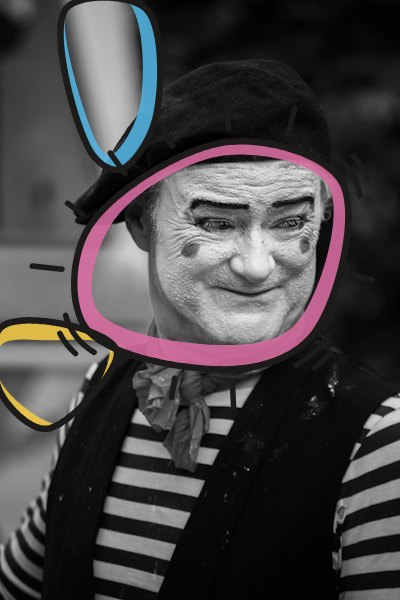
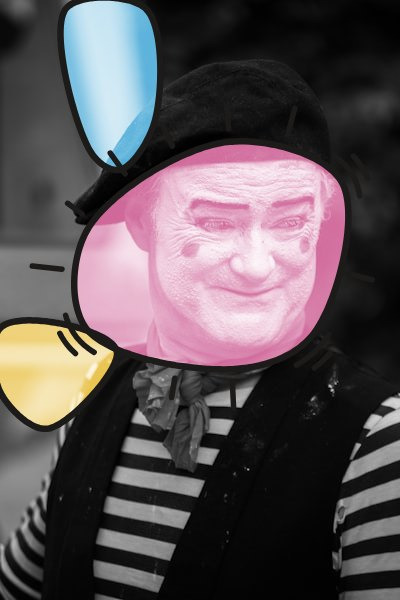
photo/aplats/web : l'aplat remplit toute la forme, en screen sur fond sombre
Sur fond sombre, aplats.js ne peignait qu'un halo autour du sujet (comme
figures.py) : l'aplat ressemblait à un simple trait le long du contour.
La couleur couvre maintenant toute la forme cernée de noir ; sur fond
sombre elle passe en screen, symétrique du multiply, qui garde le sujet
lisible. La courbe intérieure du halo disparaît du modèle animé.

Claude-Session: https://claude.ai/code/session_019a3GfqsxVAEvSqYWDAZWCo

Changed region(s): [[0.0, 0.24, 0.87, 0.72], [0.15, 0.0, 0.39, 0.27]]

diff --git a/photo/aplats/web/aplats.js b/photo/aplats/web/aplats.js
@@ -8,9 +8,13 @@
  *   2. silhouette « au pinceau » (fermeture au flou gaussien, trous bouchés),
  *      élargie, contour suivi pixel par pixel, réduit par Douglas-Peucker,
  *      relié par une Catmull-Rom centripète ;
- *   3. aplat en multiply sur fond clair, halo couvrant sur fond sombre, gros
- *      trait noir, vibrations (arcs aux angles, traits droits ailleurs) autour
- *      du sujet principal.
+ *   3. aplat sur toute la forme, en multiply sur fond clair et en screen sur
+ *      fond sombre, gros trait noir, vibrations (arcs aux angles, traits
+ *      droits ailleurs) autour du sujet principal.
+ *
+ * Écart voulu avec figures.py : sur fond sombre, le script Python laisse le
+ * sujet hors de l'aplat (un halo) ; ici la couleur remplit toute la forme
+ * cernée de noir, et c'est le mode screen qui garde le sujet lisible.
  *
  * Ce que le script Python ne fait pas : les formes sont vivantes. Chaque
  * courbe est une chaîne de points montés sur ressorts. Le curseur les
@@ -485,14 +489,6 @@
     return out;
   }
 
-  // Une courbe réduite à son centre : un trou de surface nulle.
-  function collapsed(c) {
-    const [x, y] = centroid(c);
-    const out = new Float32Array(2 * N);
-    for (let i = 0; i < N; i++) { out[2 * i] = x; out[2 * i + 1] = y; }
-    return out;
-  }
-
   function translated(c, dx, dy) {
     const out = Float32Array.from(c);
     for (let i = 0; i < N; i++) { out[2 * i] += dx; out[2 * i + 1] += dy; }
@@ -725,7 +721,7 @@
     }
 
     // Une silhouette posée sur une zone : courbe élargie (décalée comme un
-    // repérage raté), courbe du sujet (le trou du halo), mode de fusion.
+    // repérage raté) et mode de fusion.
     shapeOn(zi, main, rnd) {
       const z = this.zones[zi];
       const { w, h, lum } = this.small;
@@ -737,14 +733,13 @@
       if (!outer) return null;
       const off = 0.012 * this.d;
       outer = translated(outer, rnd.uniform(-off, off), rnd.uniform(-off, off));
-      const inner = curveOf(bold, w, h, this.k, tol) || collapsed(outer);
 
-      // Sur du clair, multiply ; sur du sombre la couleur y disparaîtrait :
-      // halo couvrant autour du sujet.
+      // Sur du clair, multiply : la couleur fonce la photo. Sur du sombre le
+      // multiply ne donnerait rien : screen, qui l'éclaircit vers la couleur.
       let sum = 0, cnt = 0;
-      for (let i = 0; i < grown.length; i++) if (grown[i] && !bold[i]) { sum += lum[i]; cnt++; }
-      const normal = cnt && sum / cnt <= 0.5 ? 1 : 0;
-      return { outer, inner, normal, zone: zi };
+      for (let i = 0; i < grown.length; i++) if (grown[i]) { sum += lum[i]; cnt++; }
+      const screen = cnt && sum / cnt <= 0.5 ? 1 : 0;
+      return { outer, screen, zone: zi };
     }
 
     build() {
@@ -767,18 +762,16 @@
           color: COULEURS[names[this.shapes.length % names.length]],
           main: this.shapes.length === 0,
           zone: zi,
-          normal: s.normal,
-          restO: s.outer, restI: align(s.outer, s.inner),
+          screen: s.screen,
+          rest: s.outer,                      // forme au repos
+          pos: Float32Array.from(s.outer),    // forme affichée
+          D: new Float32Array(2 * N),         // écart au repos de chaque point
+          V: new Float32Array(2 * N),         // et sa vitesse
+          RV: new Float32Array(2 * N),        // vitesse du repos pendant un déplacement
           T: [0, 0], TV: [0, 0],
           morph: null,
         };
-        for (const key of ['O', 'I']) {
-          shape['D' + key] = new Float32Array(2 * N);
-          shape['V' + key] = new Float32Array(2 * N);
-          shape['P' + key] = Float32Array.from(shape['rest' + key]);
-          shape['RV' + key] = new Float32Array(2 * N);
-        }
-        shape.corners = pickCorners(shape.restO, this.vib);
+        shape.corners = pickCorners(shape.rest, this.vib);
         this.shapes.push(shape);
       }
     }
@@ -797,12 +790,12 @@
       if (!this.shapes.length) return;
       let mover = null;
       for (let i = this.shapes.length - 1; i >= 0; i--) {
-        if (inside(this.shapes[i].PO, P[0], P[1])) { mover = this.shapes[i]; break; }
+        if (inside(this.shapes[i].pos, P[0], P[1])) { mover = this.shapes[i]; break; }
       }
       if (mover) return this.send(mover, null);
       let best = Infinity;
       for (const s of this.shapes) {
-        const [x, y] = centroid(s.PO);
+        const [x, y] = centroid(s.pos);
         const dd = Math.hypot(x - P[0], y - P[1]);
         if (dd < best) { best = dd; mover = s; }
       }
@@ -823,20 +816,14 @@
       let target = zi >= 0 ? this.shapeOn(zi, shape.main, this.rnd) : null;
       if (!target) {
         // Pas de zone libre : la forme glisse telle quelle, vers le clic ou au hasard.
-        const [cx, cy] = centroid(shape.restO);
+        const [cx, cy] = centroid(shape.rest);
         const to = P || [this.W * this.rnd.uniform(0.25, 0.75), this.H * this.rnd.uniform(0.25, 0.75)];
-        target = {
-          outer: translated(shape.restO, to[0] - cx, to[1] - cy),
-          inner: translated(shape.restI, to[0] - cx, to[1] - cy),
-          normal: shape.normal, zone: -1,
-        };
+        target = { outer: translated(shape.rest, to[0] - cx, to[1] - cy), screen: shape.screen, zone: -1 };
       }
-      const toO = align(shape.restO, target.outer);
       shape.morph = {
         t: 0,
-        fromO: Float32Array.from(shape.restO), toO,
-        fromI: Float32Array.from(shape.restI), toI: align(shape.restI, target.inner),
-        fromN: shape.normal, toN: target.normal,
+        from: Float32Array.from(shape.rest), to: align(shape.rest, target.outer),
+        fromScreen: shape.screen, toScreen: target.screen,
       };
       shape.zone = target.zone;
       if (reduceMotion) shape.morph.t = 1;
@@ -855,31 +842,28 @@
           const m = s.morph;
           m.t = Math.min(1, m.t + dt / TRAVEL);
           const e = m.t < 0.5 ? 4 * m.t ** 3 : 1 - (-2 * m.t + 2) ** 3 / 2;
-          for (const key of ['O', 'I']) {
-            const rest = s['rest' + key], from = m['from' + key], to = m['to' + key], rv = s['RV' + key], V = s['V' + key];
-            for (let i = 0; i < 2 * N; i++) {
-              const next = from[i] + (to[i] - from[i]) * e;
-              const vel = dt > 0 ? (next - rest[i]) / dt : 0;
-              // Pseudo-force d'inertie : la forme traîne puis rebondit à l'arrivée.
-              if (!reduceMotion && dt > 0) V[i] -= INERTIA * (vel - rv[i]);
-              rv[i] = vel;
-              rest[i] = next;
-            }
+          for (let i = 0; i < 2 * N; i++) {
+            const next = m.from[i] + (m.to[i] - m.from[i]) * e;
+            const vel = dt > 0 ? (next - s.rest[i]) / dt : 0;
+            // Pseudo-force d'inertie : la forme traîne puis rebondit à l'arrivée.
+            if (!reduceMotion && dt > 0) s.V[i] -= INERTIA * (vel - s.RV[i]);
+            s.RV[i] = vel;
+            s.rest[i] = next;
           }
-          s.normal = m.fromN + (m.toN - m.fromN) * e;
+          s.screen = m.fromScreen + (m.toScreen - m.fromScreen) * e;
           if (m.t >= 1) {
             s.morph = null;
-            s.RVO.fill(0); s.RVI.fill(0);
-            s.corners = pickCorners(s.restO, this.vib);
+            s.RV.fill(0);
+            s.corners = pickCorners(s.rest, this.vib);
           }
         }
 
         // Toute la forme glisse un peu pour s'écarter du curseur.
-        const [cx, cy] = centroid(s.restO);
+        const [cx, cy] = centroid(s.rest);
         let fx = 0, fy = 0;
         if (this.cursor && !reduceMotion) {
           let radius = 0;
-          for (let i = 0; i < N; i++) radius = Math.max(radius, Math.hypot(s.restO[2 * i] - cx, s.restO[2 * i + 1] - cy));
+          for (let i = 0; i < N; i++) radius = Math.max(radius, Math.hypot(s.rest[2 * i] - cx, s.rest[2 * i + 1] - cy));
           const ux = cx + s.T[0] - this.cursor[0], uy = cy + s.T[1] - this.cursor[1];
           const dist = Math.hypot(ux, uy), reach = radius + REACH * d;
           if (dist < reach) {
@@ -892,15 +876,12 @@
             s.TV[a] += h * ((a ? fy : fx) - K * 0.6 * s.T[a] - DAMP * s.TV[a]);
             s.T[a] += h * s.TV[a];
           }
-          for (const key of ['O', 'I']) this.relax(s, key, h);
+          this.relax(s, h);
         }
         let motion = Math.hypot(s.T[0], s.T[1]) + Math.hypot(s.TV[0], s.TV[1]) * 0.05;
-        for (const key of ['O', 'I']) {
-          const D = s['D' + key], V = s['V' + key], P = s['P' + key], rest = s['rest' + key];
-          for (let i = 0; i < 2 * N; i++) {
-            P[i] = rest[i] + s.T[i & 1] + D[i];
-            motion = Math.max(motion, Math.abs(D[i]) + Math.abs(V[i]) * 0.05);
-          }
+        for (let i = 0; i < 2 * N; i++) {
+          s.pos[i] = s.rest[i] + s.T[i & 1] + s.D[i];
+          motion = Math.max(motion, Math.abs(s.D[i]) + Math.abs(s.V[i]) * 0.05);
         }
         if (motion > 0.002 * d) busy = true;
       }
@@ -910,8 +891,8 @@
 
     // Chaque point est tiré vers son repos, lié à ses voisins, repoussé par
     // le curseur.
-    relax(s, key, h) {
-      const D = s['D' + key], V = s['V' + key], rest = s['rest' + key];
+    relax(s, h) {
+      const { D, V, rest } = s;
       const q = this.cursor && !reduceMotion ? this.cursor : null;
       const reach = REACH * this.d, push = K * PUSH * this.d;
       for (let i = 0; i < N; i++) {
@@ -953,19 +934,13 @@
 
       for (const s of this.shapes) {
         ctx.fillStyle = s.color;
-        if (s.normal < 0.999) {
-          ctx.globalCompositeOperation = 'multiply';
-          ctx.globalAlpha = 0.95 * (1 - s.normal);
-          ctx.beginPath(); this.path(s.PO, ctx); ctx.fill();
-        }
-        if (s.normal > 0.001) {
-          // Fond sombre : halo couvrant, le sujet reste visible au milieu.
-          ctx.globalCompositeOperation = 'source-over';
-          ctx.globalAlpha = 0.88 * s.normal;
-          ctx.save();
-          ctx.beginPath(); this.path(s.PO, ctx); ctx.clip();
-          ctx.beginPath(); this.path(s.PO, ctx); this.path(s.PI, ctx); ctx.fill('evenodd');
-          ctx.restore();
+        // Toute la forme est peinte. En chemin d'un fond clair à un fond
+        // sombre, les deux modes se fondent l'un dans l'autre.
+        for (const [mode, weight] of [['multiply', 1 - s.screen], ['screen', s.screen]]) {
+          if (weight < 0.001) continue;
+          ctx.globalCompositeOperation = mode;
+          ctx.globalAlpha = 0.95 * weight;
+          ctx.beginPath(); this.path(s.pos, ctx); ctx.fill();
         }
       }
 
@@ -975,13 +950,13 @@
       ctx.lineJoin = 'round';
       ctx.lineCap = 'round';
       ctx.lineWidth = this.stroke;
-      for (const s of this.shapes) { ctx.beginPath(); this.path(s.PO, ctx); ctx.stroke(); }
+      for (const s of this.shapes) { ctx.beginPath(); this.path(s.pos, ctx); ctx.stroke(); }
 
       const main = this.shapes.find((s) => s.main);
       if (main && this.rays) {
         ctx.lineWidth = this.vib.width;
         ctx.beginPath();
-        for (const line of vibrationLines(main.PO, this.vib, main.corners)) {
+        for (const line of vibrationLines(main.pos, this.vib, main.corners)) {
           ctx.moveTo(line[0][0], line[0][1]);
           for (let i = 1; i < line.length; i++) ctx.lineTo(line[i][0], line[i][1]);
         }

diff --git a/index.html b/index.html
@@ -203,9 +203,9 @@
       <span class="go">Jouer avec <span>→</span></span>
     </div>
     <div class="strip">
-      <img src="photo/aplats/web/apercu/04-guitar.jpg" alt="Un guitariste devant un drapeau, cerné d'un halo jaune" loading="lazy">
-      <img src="photo/aplats/web/apercu/10-smile.jpg" alt="Un portrait souriant, le visage cerné d'un halo orange" loading="lazy">
-      <img src="photo/aplats/web/apercu/07-mime.jpg" alt="Un mime au visage cerné d'un halo rose" loading="lazy">
+      <img src="photo/aplats/web/apercu/04-guitar.jpg" alt="Un guitariste devant un drapeau, couvert d'un aplat jaune" loading="lazy">
+      <img src="photo/aplats/web/apercu/10-smile.jpg" alt="Un portrait souriant, le visage couvert d'un aplat orange" loading="lazy">
+      <img src="photo/aplats/web/apercu/07-mime.jpg" alt="Un mime au visage couvert d'un aplat rose" loading="lazy">
     </div>
   </a>
 

diff --git a/photo/aplats/README.md b/photo/aplats/README.md
@@ -84,11 +84,15 @@ zone sombre le multiply ne donnerait rien : l'aplat devient couvrant.
 `web/aplats.js` refait la chaîne de `figures.py` en JavaScript, sans
 dépendance : même analyse sur 256 px (saillance, Otsu, composantes, forme au
 pinceau, morphologie au flou gaussien, suivi de Moore, Douglas-Peucker,
-Catmull-Rom centripète), même palette, mêmes proportions de traits, même
-choix multiply / halo couvrant, mêmes vibrations. Le rendu est à peu de chose
-près celui du script : le hasard n'est pas le même (une graine Python ne
-redonne pas le même tirage) et le mode de fusion est décidé sur la copie
-réduite.
+Catmull-Rom centripète), même palette, mêmes proportions de traits, mêmes
+vibrations. Le hasard n'est pas le même (une graine Python ne redonne pas le
+même tirage) et le mode de fusion est décidé sur la copie réduite.
+
+Un écart voulu : la couleur remplit toujours toute la forme cernée de noir.
+Sur fond clair, l'aplat est en *multiply*, comme dans `figures.py`. Sur fond
+sombre, là où le script Python ne peint qu'un halo autour du sujet, il passe
+en *screen*, le symétrique du multiply : le noir prend la couleur pure et les
+parties claires du sujet restent lisibles au travers.
 
 Puis les formes s'animent. Chaque courbe est rééchantillonnée en 160 points
 montés sur ressorts (retour au repos, cohésion entre voisins, amortissement) :
@@ -99,8 +103,8 @@ montés sur ressorts (retour au repos, cohésion entre voisins, amortissement) :
   photo restée libre (l'analyse en garde huit, trois seulement sont peintes)
   et prend sa silhouette : les deux courbes sont alignées point à point puis
   interpolées, avec une pseudo-force d'inertie qui la fait traîner et
-  rebondir à l'arrivée. Le halo devient multiply en chemin si le nouveau fond
-  est clair, et inversement ;
+  rebondir à l'arrivée. L'aplat passe de screen à multiply en chemin si le
+  nouveau fond est clair, et inversement ;
 * **au clic à côté**, la forme la plus proche vient sur la zone cliquée, ou
   glisse simplement jusqu'au clic s'il n'y a pas de zone libre là ;
 * au clavier, Entrée envoie le sujet principal ailleurs. Avec
